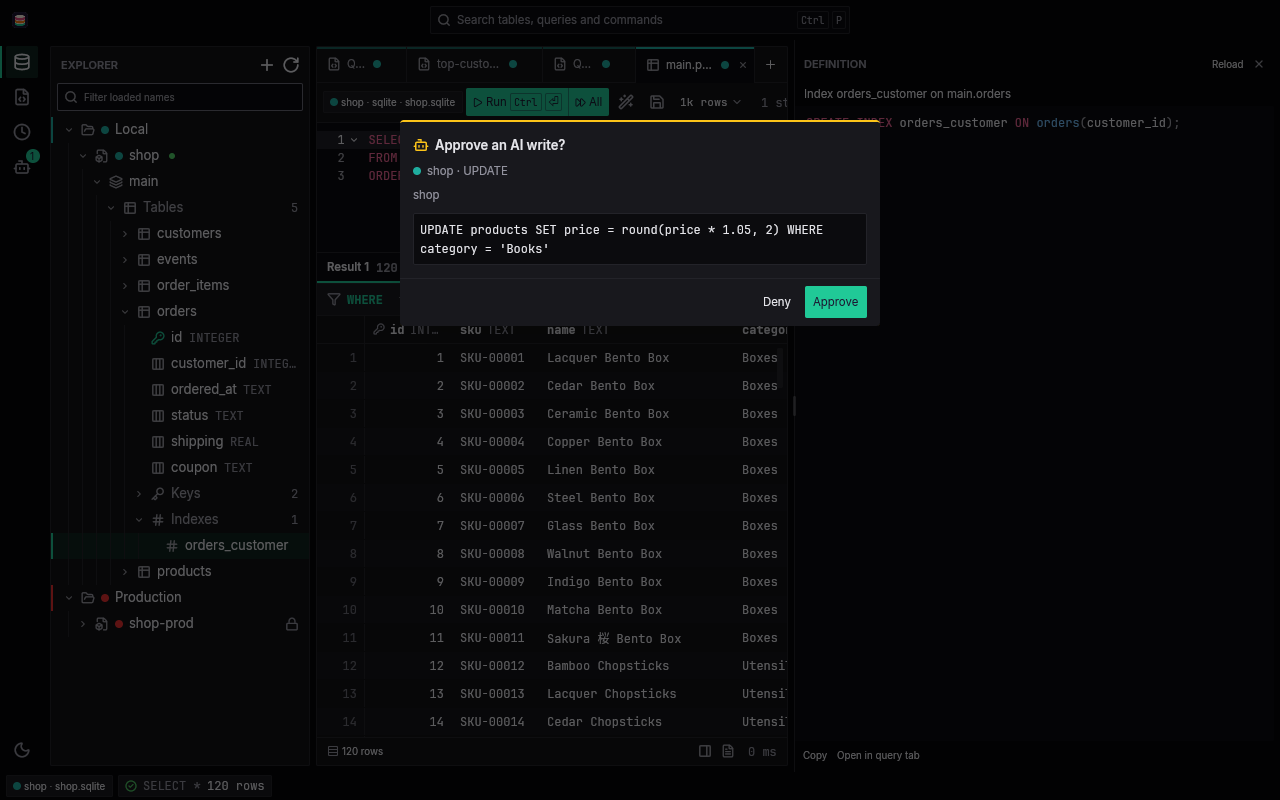
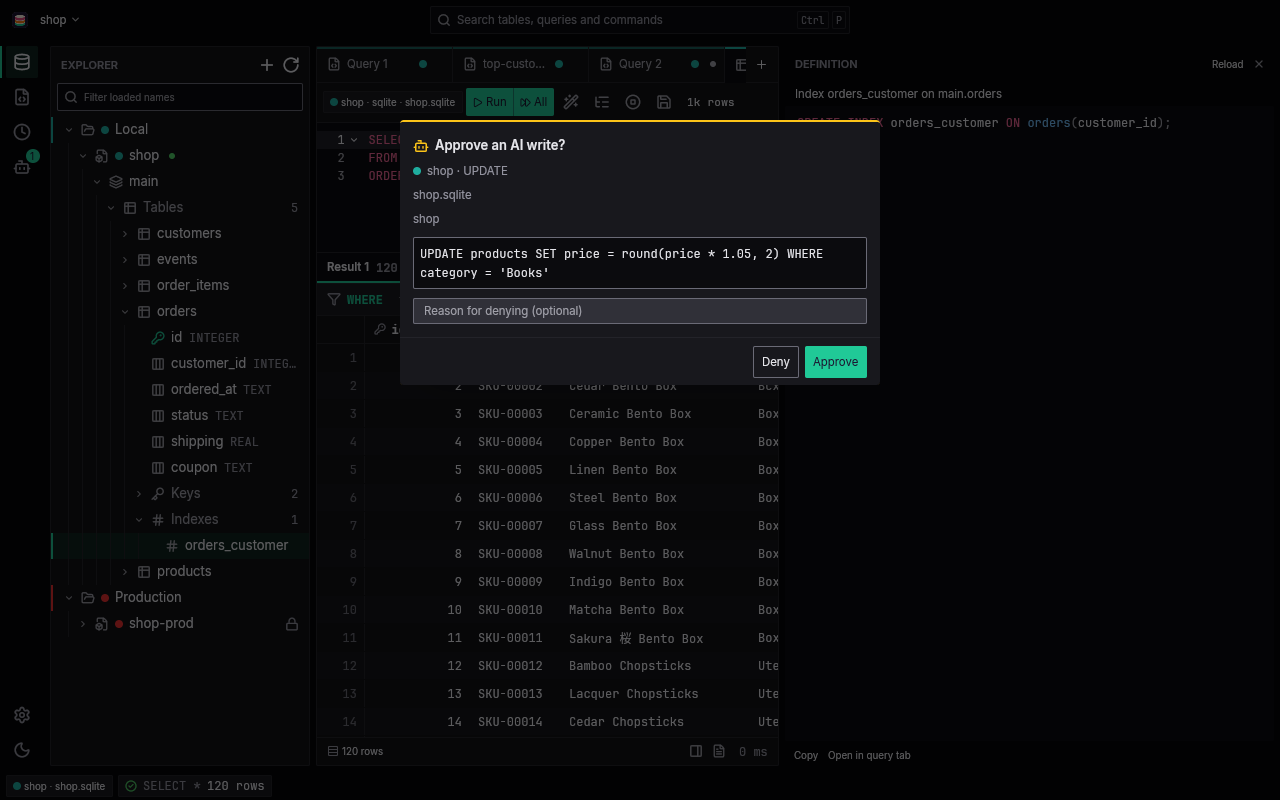
test(pilot): cover the approval target in the dialog and panel
Migrates the five pilot ApprovalRequest::new sites to pass the target
through a common::approval_target helper, adds approval_target.rs for the
dialog's target line, the panel rows and the changed-target note, and
measures the uxnits_group03 gaps through the new target line, asserting it
has the headline's height. Regenerates assets/screenshots/approval.png.

Deviation: tools/dbento-pilot/Cargo.lock adds serde_json to
dbento-workspace's dependencies, which the workspace crate gained earlier
in this branch; the pilot package's own lock needed it for --locked builds.

diff --git a/tools/dbento-pilot/tests/approval_target.rs b/tools/dbento-pilot/tests/approval_target.rs
@@ -1,0 +1,131 @@
+//! The approval dialog and panel name each request's target, and a target changed since the
+//! AI asked reads as production with a note. Set DBENTO_SHOTS_DIR to keep the shots.
+mod common;
+
+use std::path::Path;
+use std::time::{Duration, Instant};
+
+use common::{Pilot, approval_target, find_node, launch_args, sqlite_workspace};
+use dbento_app::app::AppPaths;
+use dbento_core::{ApprovalRequest, ApprovalStore, Writes};
+use serde_json::{Value, json};
+
+fn name<'a>(tree: &'a Value, id: &str) -> Option<&'a str> {
+    find_node(tree, id).and_then(|n| n["name"].as_str())
+}
+
+async fn until(pilot: &Pilot, what: &str, done: impl Fn(&Value) -> bool) -> Value {
+    let deadline = Instant::now() + Duration::from_secs(30);
+    loop {
+        let tree = pilot.ok("tree", json!({})).await;
+        if done(&tree) {
+            return tree;
+        }
+        assert!(Instant::now() < deadline, "{what} never happened: {tree}");
+        pilot.ok("wait", json!({ "ms": 50 })).await;
+    }
+}
+
+async fn shot(pilot: &Pilot, file: &str) {
+    if let Some(dir) = std::env::var_os("DBENTO_SHOTS_DIR").map(std::path::PathBuf::from) {
+        std::fs::create_dir_all(&dir).unwrap();
+        pilot
+            .ok("screenshot", json!({ "save_to": dir.join(file) }))
+            .await;
+    }
+}
+
+fn file(state: &Path, ws: &Path, sql: &str) {
+    let store = ApprovalStore::open(&AppPaths::in_dir(state).approvals).unwrap();
+    let target = approval_target(ws, "lite");
+    store
+        .request(&ApprovalRequest::new(
+            ws,
+            "lite",
+            target,
+            sql,
+            Writes::Yes,
+            vec![],
+        ))
+        .unwrap();
+}
+
+async fn launch(pilot: &Pilot, ws: &Path, state: &Path) {
+    let mut args = launch_args("headless", ws);
+    args["env"] = json!({ "DBENTO_STATE_DIR": state });
+    pilot.ok("launch", args).await;
+}
+
+#[tokio::test(flavor = "multi_thread")]
+async fn the_dialog_and_panel_name_the_target() {
+    let ws = sqlite_workspace();
+    let state = tempfile::tempdir().unwrap();
+    file(state.path(), ws.path(), "UPDATE t SET a = 1 WHERE a = 2");
+    let pilot = Pilot::start().await;
+    launch(&pilot, ws.path(), state.path()).await;
+    let tree = until(&pilot, "the dialog", |t| {
+        name(t, "approval-target").is_some()
+    })
+    .await;
+    assert_eq!(name(&tree, "approval-target"), Some("app.db"));
+    assert!(find_node(&tree, "approval-changed").is_none());
+    assert!(find_node(&tree, "approval-production").is_none());
+    shot(&pilot, "approval-target-normal.png").await;
+    pilot
+        .ok("click", json!({ "target": { "id": ["approval-approve"] } }))
+        .await;
+    until(&pilot, "the dialog to close", |t| {
+        find_node(t, "approval-dialog").is_none()
+    })
+    .await;
+    pilot
+        .ok("click", json!({ "target": { "id": ["rail-approvals"] } }))
+        .await;
+    until(&pilot, "the decided row", |t| {
+        name(t, "approvals-decided-0")
+            .is_some_and(|n| n.starts_with("lite \u{B7} app.db \u{B7} UPDATE"))
+    })
+    .await;
+    // A second request while the panel is open: its row draws under the new dialog.
+    file(state.path(), ws.path(), "DELETE FROM t WHERE a = 3");
+    until(&pilot, "the pending row", |t| {
+        name(t, "approvals-pending-0")
+            .is_some_and(|n| n.starts_with("lite \u{B7} app.db \u{B7} DELETE"))
+            && find_node(t, "approval-dialog").is_some()
+    })
+    .await;
+    shot(&pilot, "approval-target-panel.png").await;
+    pilot
+        .ok("click", json!({ "target": { "id": ["approval-deny"] } }))
+        .await;
+    assert_eq!(pilot.ok("close", json!({})).await["exit_code"], json!(0));
+    pilot.assert_bus_untouched();
+}
+
+#[tokio::test(flavor = "multi_thread")]
+async fn a_target_changed_before_launch_reads_as_production_with_a_note() {
+    let ws = sqlite_workspace();
+    let state = tempfile::tempdir().unwrap();
+    // Filed against app.db; the name then moves to another file before the app first looks.
+    file(state.path(), ws.path(), "DELETE FROM t WHERE a = 3");
+    std::fs::write(ws.path().join("other.db"), b"").unwrap();
+    let toml = ws.path().join("dbento.toml");
+    let text = std::fs::read_to_string(&toml)
+        .unwrap()
+        .replace("app.db", "other.db");
+    std::fs::write(&toml, text).unwrap();
+    let pilot = Pilot::start().await;
+    launch(&pilot, ws.path(), state.path()).await;
+    let tree = until(&pilot, "the changed dialog", |t| {
+        find_node(t, "approval-changed").is_some()
+    })
+    .await;
+    assert!(find_node(&tree, "approval-production").is_some());
+    assert_eq!(name(&tree, "approval-target"), Some("app.db"));
+    shot(&pilot, "approval-target-changed.png").await;
+    pilot
+        .ok("click", json!({ "target": { "id": ["approval-deny"] } }))
+        .await;
+    assert_eq!(pilot.ok("close", json!({})).await["exit_code"], json!(0));
+    pilot.assert_bus_untouched();
+}

diff --git a/tools/dbento-pilot/tests/uxnits_group03.rs b/tools/dbento-pilot/tests/uxnits_group03.rs
@@ -9,7 +9,8 @@ use std::path::{Path, PathBuf};
 use std::time::{Duration, Instant};
 
 use common::{
-    Pilot, Rect, bounds, find_node, launch_args, sqlite_workspace, sqlite_workspace_named,
+    Pilot, Rect, approval_target, bounds, find_node, launch_args, sqlite_workspace,
+    sqlite_workspace_named,
 };
 use dbento_app::app::AppPaths;
 use dbento_app::approvals::FOLDER_TIP_DROP;
@@ -203,7 +204,14 @@ async fn editor_menu_explorer_tip_approval_tip_and_preview_inset() {
         let store = ApprovalStore::open(&AppPaths::in_dir(state.path()).approvals).unwrap();
         let sql = "UPDATE t SET name = 'z' WHERE id = 1";
         store
-            .request(&ApprovalRequest::new(&ws, "lite", sql, Writes::Yes, vec![]))
+            .request(&ApprovalRequest::new(
+                &ws,
+                "lite",
+                approval_target(&ws, "lite"),
+                sql,
+                Writes::Yes,
+                vec![],
+            ))
             .unwrap();
         let pilot = Pilot::start().await;
         let mut args = launch_args("headless", &ws);
@@ -219,8 +227,9 @@ async fn editor_menu_explorer_tip_approval_tip_and_preview_inset() {
         hover(&pilot, "approval-workspace", 1500).await;
         let tipped = dir.join(format!("approval-path-tooltip-{theme}.png"));
         shot(&pilot, &tipped).await;
-        let (headline, label, sql_box) = (
+        let (headline, target, label, sql_box) = (
             bounds(&tree, "approval-connection"),
+            bounds(&tree, "approval-target"),
             bounds(&tree, "approval-workspace"),
             bounds(&tree, "approval-sql"),
         );
@@ -230,7 +239,16 @@ async fn editor_menu_explorer_tip_approval_tip_and_preview_inset() {
             ..label
         };
         // The lines sit a gap_2 apart and the SQL box adds its mt_1: half a gap more.
-        let gap = line.y - headline.y - headline.h;
+        let gap = target.y - headline.y - headline.h;
+        assert_eq!(
+            target.h, headline.h,
+            "the target line has the headline's height"
+        );
+        assert_eq!(
+            line.y - target.y - target.h,
+            gap,
+            "the target line sits a gap above the folder line"
+        );
         assert_eq!(
             (line.h, sql_box.y - line.y - line.h),
             (headline.h, gap * 1.5),

diff --git a/tools/dbento-pilot/tests/approvals_badge.rs b/tools/dbento-pilot/tests/approvals_badge.rs
@@ -5,7 +5,7 @@ mod common;
 use std::path::Path;
 use std::time::{Duration, Instant, SystemTime};
 
-use common::{Pilot, bounds, find_node, launch_args, sqlite_workspace};
+use common::{Pilot, approval_target, bounds, find_node, launch_args, sqlite_workspace};
 use dbento_app::app::AppPaths;
 use dbento_core::{ApprovalRequest, ApprovalStore, Writes};
 use serde_json::{Value, json};
@@ -42,8 +42,15 @@ fn file(state: &Path, ws: &Path, from: usize, to: usize) {
         let sql = format!("INSERT INTO t VALUES ({i})");
         store
             .request(
-                &ApprovalRequest::new(ws, "lite", &sql, Writes::Yes, vec![])
-                    .with_time(SystemTime::now() - Duration::from_secs((to - i) as u64)),
+                &ApprovalRequest::new(
+                    ws,
+                    "lite",
+                    approval_target(ws, "lite"),
+                    &sql,
+                    Writes::Yes,
+                    vec![],
+                )
+                .with_time(SystemTime::now() - Duration::from_secs((to - i) as u64)),
             )
             .unwrap();
     }

diff --git a/tools/dbento-pilot/tests/common/mod.rs b/tools/dbento-pilot/tests/common/mod.rs
@@ -291,3 +291,23 @@ pub async fn demo_workspace() -> (tempfile::TempDir, PathBuf) {
     s.close().await.unwrap();
     (dir, ws)
 }
+
+/// The approval target of `conn` as `ws` resolves it now, or a fixed stand-in for a name
+/// it cannot resolve.
+pub fn approval_target(ws: &Path, conn: &str) -> dbento_core::ApprovalTarget {
+    let resolved = dbento_core::Workspace::open(ws)
+        .ok()
+        .and_then(|w| w.connection(conn).map(std::borrow::Cow::into_owned));
+    let config = resolved.unwrap_or_else(|| {
+        dbento_core::Workspace::from_text(
+            PathBuf::from("/nowhere"),
+            Path::new("/nowhere/dbento.toml"),
+            "dbento = 1\n[connections.x]\nengine = \"sqlite\"\npath = \"x.db\"\n",
+        )
+        .unwrap()
+        .declared("x")
+        .unwrap()
+        .clone()
+    });
+    dbento_core::ApprovalTarget::of(&config)
+}

diff --git a/tools/dbento-pilot/tests/uxnits_group05.rs b/tools/dbento-pilot/tests/uxnits_group05.rs
@@ -6,7 +6,7 @@ mod common;
 use std::path::{Path, PathBuf};
 use std::time::{Duration, Instant};
 
-use common::{Pilot, Rect, bounds, find_node, launch_args, sqlite_workspace};
+use common::{Pilot, Rect, approval_target, bounds, find_node, launch_args, sqlite_workspace};
 use dbento_app::app::AppPaths;
 use dbento_core::{ApprovalRequest, ApprovalStore, Writes};
 use serde_json::{Value, json};
@@ -209,6 +209,7 @@ async fn amber_note_sql_wells_and_secondary_buttons_in_light() {
         .request(&ApprovalRequest::new(
             ws.path(),
             "lite",
+            approval_target(ws.path(), "lite"),
             "UPDATE t SET name = 'z' WHERE id = 1",
             Writes::Yes,
             vec![],

diff --git a/tools/dbento-pilot/tests/a11y_session.rs b/tools/dbento-pilot/tests/a11y_session.rs
@@ -5,7 +5,7 @@ mod common;
 
 use std::time::{Duration, Instant};
 
-use common::{Pilot, find_node, launch_args, session_app, sqlite_workspace};
+use common::{Pilot, approval_target, find_node, launch_args, session_app, sqlite_workspace};
 use dbento_core::{ApprovalRequest, ApprovalStore, Writes};
 use serde_json::{Value, json};
 
@@ -42,6 +42,7 @@ async fn the_session_tree_names_the_chrome_and_the_approval_buttons() {
     let request = ApprovalRequest::new(
         ws.path(),
         "lite",
+        approval_target(ws.path(), "lite"),
         "INSERT INTO t VALUES (1)",
         Writes::Yes,
         vec![],

diff --git a/tools/dbento-pilot/tests/screenshots.rs b/tools/dbento-pilot/tests/screenshots.rs
@@ -5,7 +5,7 @@ mod common;
 
 use std::time::{Duration, Instant};
 
-use common::{Pilot, bounds, demo_workspace, find_node};
+use common::{Pilot, approval_target, bounds, demo_workspace, find_node};
 use dbento_app::app::AppPaths;
 use dbento_core::{ApprovalRequest, ApprovalStore, Writes};
 use serde_json::{Value, json};
@@ -196,6 +196,7 @@ async fn the_readme_screenshots() {
         .request(&ApprovalRequest::new(
             &ws,
             "shop",
+            approval_target(&ws, "shop"),
             APPROVAL_SQL,
             Writes::Yes,
             vec![],
